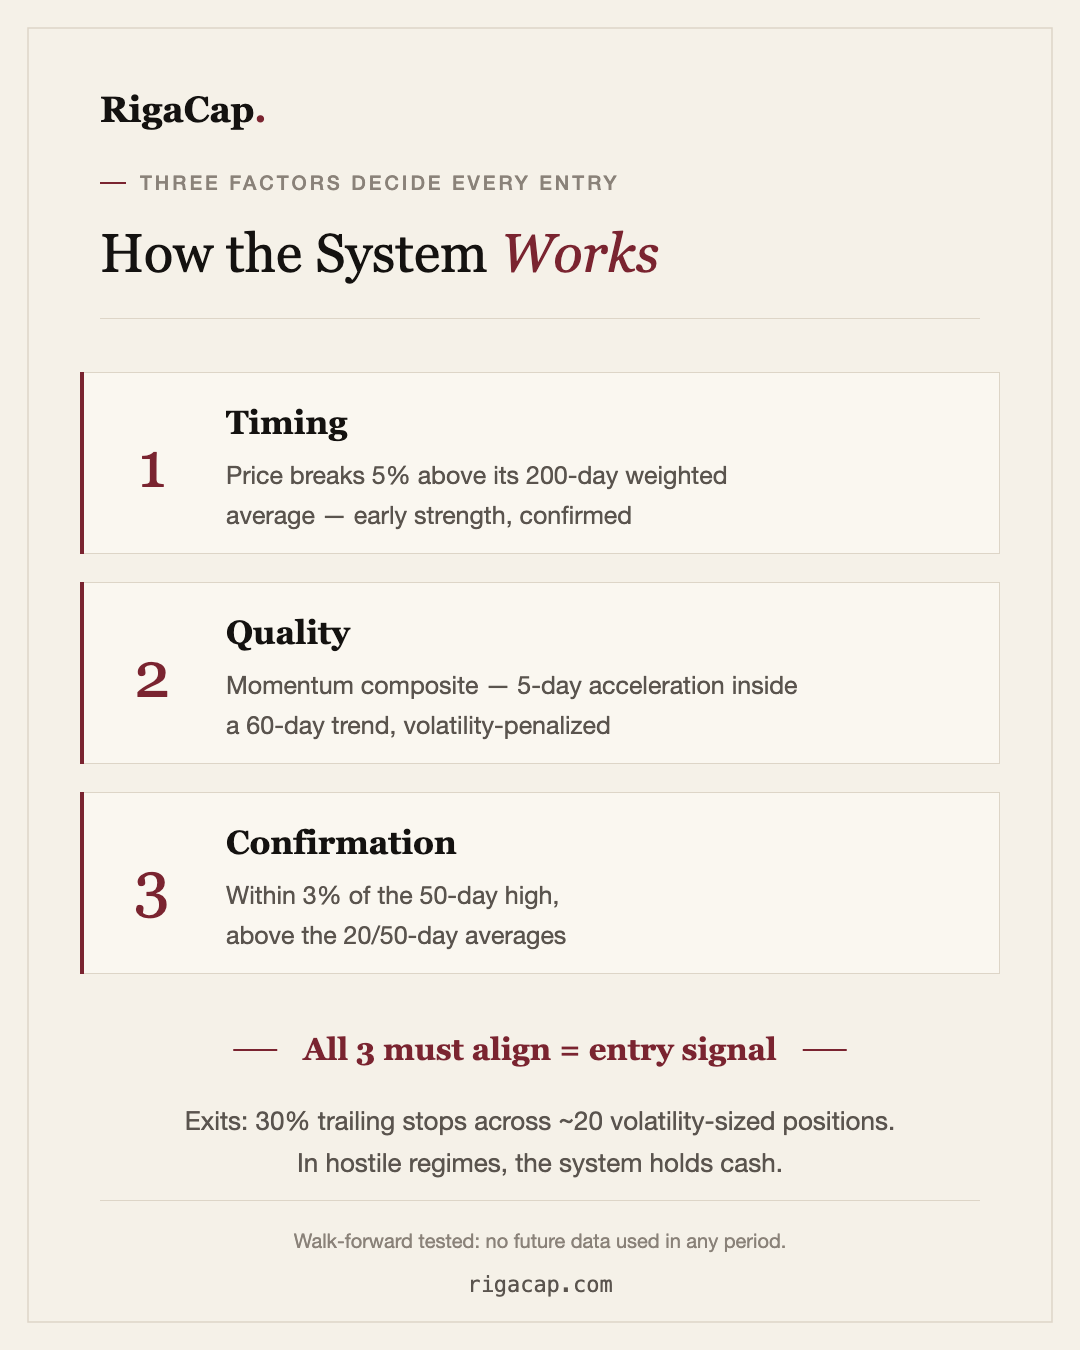
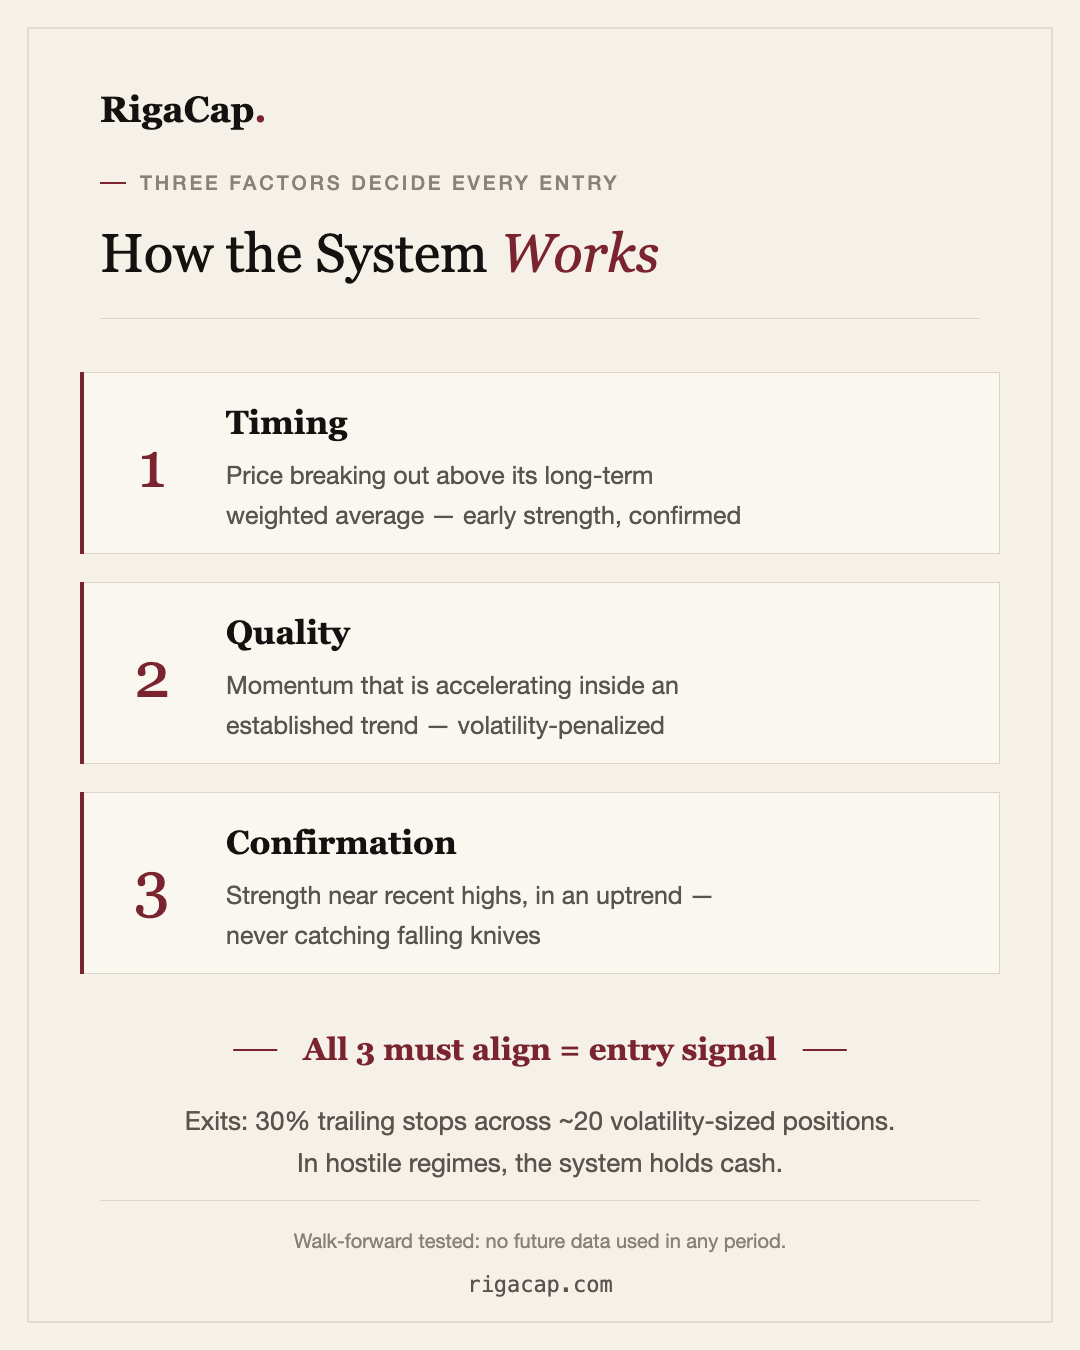
Launch cards: analyst-led card 1, sharpie circle + column fix on card 2, de-reciped card 3
1) Card 1 no longer leads with bare 8.3% ('very meh' — Erik): now 'Behavioral
   capital insurance for your portfolio.' + last-24-months +32%/2.20 hook,
   21-year foundation grounding it
2) Card 2: Sharpe/Worst-DD header overlap fixed (column coords + 'Worst DD');
   hand-drawn claret sharpie ellipse around the -19% — the number that is
   the product
3) Card 3: entry-signal coefficients removed from public surface (structure
   only) per the de-recipe rule — now also a permanent memory

Changed region(s): [[0.2139, 0.4978, 0.7333, 0.56], [0.2139, 0.3422, 0.6722, 0.4044], [0.2139, 0.6533, 0.6417, 0.7156]]

diff --git a/design/brand/social-launch-cards.html b/design/brand/social-launch-cards.html
@@ -152,6 +152,26 @@ function drawFooter(ctx, w, h, note) {
 }
 
 // Draw text, shrinking the font size until it fits maxWidth.
+function sharpieEllipse(ctx, cx, cy, rx, ry) {
+  ctx.save();
+  ctx.strokeStyle = CLARET;
+  ctx.lineWidth = 3.5;
+  ctx.lineCap = 'round';
+  for (let pass = 0; pass < 2; pass++) {
+    ctx.beginPath();
+    const rot = -0.06 + pass * 0.045;
+    const jr = pass * 4;
+    for (let a = -0.35; a <= Math.PI * 2 + 0.15; a += 0.16) {
+      const wob = Math.sin(a * 3.1 + pass * 1.7) * 2.4;
+      const x = cx + (rx + jr + wob) * Math.cos(a) * Math.cos(rot) - (ry + wob) * Math.sin(a) * Math.sin(rot);
+      const yy = cy + (rx + jr + wob) * Math.cos(a) * Math.sin(rot) + (ry + wob) * Math.sin(a) * Math.cos(rot);
+      if (a <= -0.35 + 0.001) ctx.moveTo(x, yy); else ctx.lineTo(x, yy);
+    }
+    ctx.stroke();
+  }
+  ctx.restore();
+}
+
 function fitText(ctx, text, x, y, maxWidth, font) {
   ctx.font = font;
   let size = parseInt(font.match(/(\d+)px/)[1], 10);
@@ -187,16 +207,20 @@ function drawAllCards() {
 
   hairline(ctx, 160, w - 160, 738);
 
-  // Stat line — mono, ink
+  // Lead: behavioral-insurance framing + the recent held-out window;
+  // the 21-year foundation grounds it (8.3 alone reads 'meh' — analyst feedback)
   ctx.fillStyle = INK;
-  fitText(ctx, '21-year walk-forward backtest · 8.3% annualized · worst drawdown 19%', w / 2, 822, 920,
+  fitText(ctx, 'Behavioral capital insurance for your portfolio.', w / 2, 808, 920,
+    'bold italic 36px ' + SERIF);
+  ctx.fillStyle = FOREST;
+  fitText(ctx, 'Last 24 months: +32% annualized · 2.20 Sharpe (held-out backtest)', w / 2, 872, 920,
     'bold 27px ' + MONO);
-
+  ctx.fillStyle = INK;
+  fitText(ctx, '21-year foundation: worst drawdown 19% — the index lost half, twice', w / 2, 920, 920,
+    '26px ' + MONO);
   ctx.fillStyle = MUTED;
-  fitText(ctx, 'Through 2008, COVID, and 2022 — the index lost half its value twice.', w / 2, 905, 900,
-    '27px ' + SANS);
-  fitText(ctx, 'Every number labeled. Losers posted too.', w / 2, 953, 900,
-    '27px ' + SANS);
+  fitText(ctx, 'Through 2008, COVID, and 2022. Every number labeled. Losers posted too.', w / 2, 985, 900,
+    '26px ' + SANS);
 
   drawFooter(ctx, w, h, null);
 })();
@@ -218,7 +242,7 @@ function drawAllCards() {
   hairline(ctx, 100, w - 100, 318);
 
   // Table header — tracked uppercase, mono numbers right-aligned
-  const nameX = 110, annX = 620, shX = 780, ddX = 980;
+  const nameX = 110, annX = 560, shX = 720, ddX = 980;
   let y = 405;
   ctx.fillStyle = FAINT;
   ctx.font = '500 19px ' + SANS;
@@ -227,7 +251,7 @@ function drawAllCards() {
   ctx.textAlign = 'right';
   drawTracked(ctx, 'Annualized', annX, y, 3);
   drawTracked(ctx, 'Sharpe', shX, y, 3);
-  drawTracked(ctx, 'Worst drawdown', ddX, y, 3);
+  drawTracked(ctx, 'Worst DD', ddX, y, 3);
   hairline(ctx, 100, w - 100, y + 22);
 
   const rows = [
@@ -259,6 +283,10 @@ function drawAllCards() {
     ctx.font = (row.highlight ? 'bold ' : '') + '30px ' + MONO;
     ctx.fillText(row.dd, ddX, y);
 
+    if (row.highlight) {
+      // hand-drawn sharpie circle around the number that is the product
+      sharpieEllipse(ctx, ddX - 58, y - 10, 98, 42);
+    }
     hairline(ctx, 100, w - 100, y + 32);
     y += 96;
   });
@@ -321,20 +349,20 @@ function drawAllCards() {
     {
       num: '1',
       title: 'Timing',
-      line1: 'Price breaks 5% above its 200-day weighted',
-      line2: 'average — early strength, confirmed',
+      line1: 'Price breaking out above its long-term',
+      line2: 'weighted average — early strength, confirmed',
     },
     {
       num: '2',
       title: 'Quality',
-      line1: 'Momentum composite — 5-day acceleration inside',
-      line2: 'a 60-day trend, volatility-penalized',
+      line1: 'Momentum that is accelerating inside an',
+      line2: 'established trend — volatility-penalized',
     },
     {
       num: '3',
       title: 'Confirmation',
-      line1: 'Within 3% of the 50-day high,',
-      line2: 'above the 20/50-day averages',
+      line1: 'Strength near recent highs, in an uptrend —',
+      line2: 'never catching falling knives',
     },
   ];
 